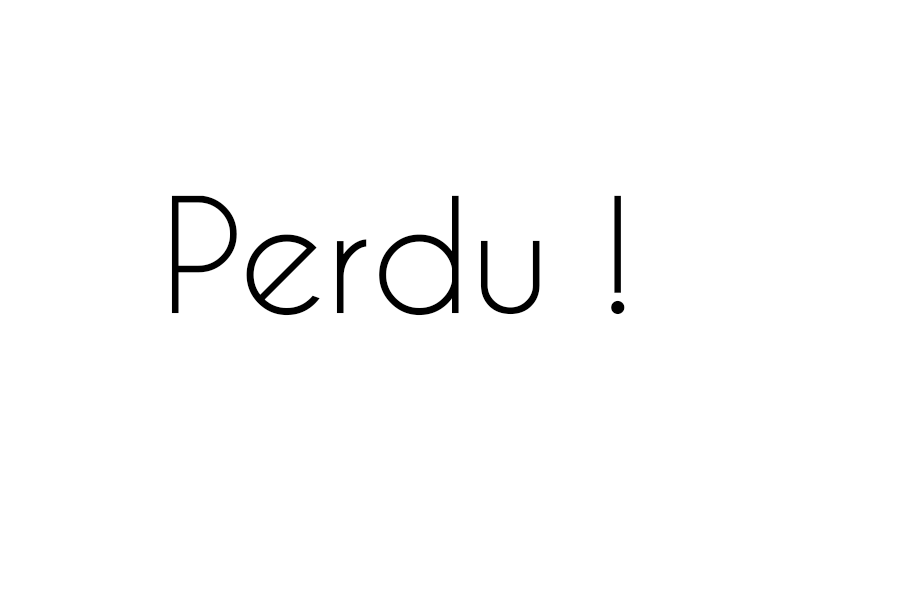
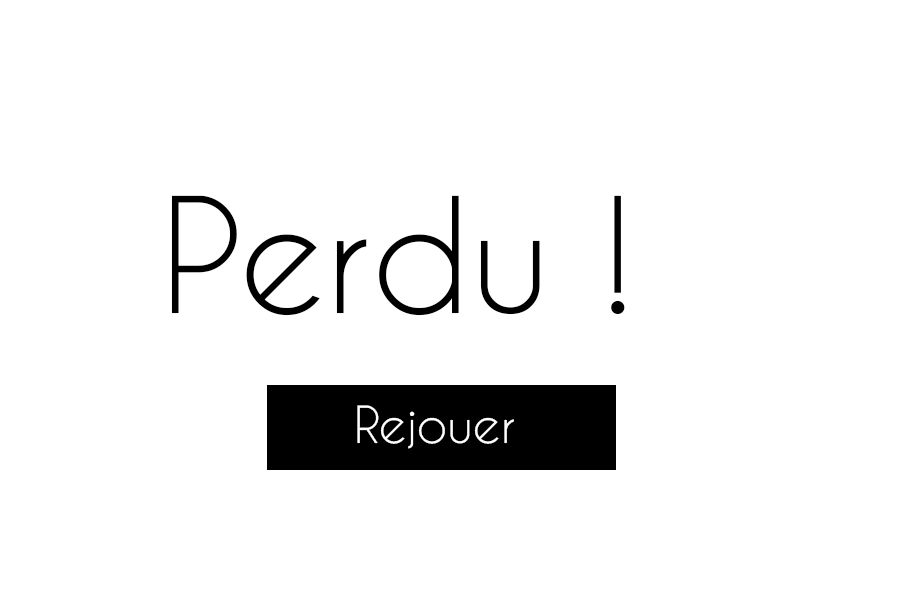
Some cleaning + working on endGame (still bug)

Changed region(s): [[0.28, 0.63, 0.6844, 0.81]]

diff --git a/src/fr/imac/javawars/player/Menu.java b/src/fr/imac/javawars/player/Menu.java
@@ -2,7 +2,6 @@ package fr.imac.javawars.player;
 
 import java.awt.Graphics;
 import java.awt.Image;
-import java.awt.Toolkit;
 import java.awt.event.MouseAdapter;
 import java.awt.event.MouseEvent;
 import java.awt.geom.Rectangle2D;
@@ -21,6 +20,7 @@ import fr.imac.javawars.JavaWars;
 public class Menu extends JPanel {
 	Image backgroundMenu;
 	Rectangle2D boutonPlay;
+	Rectangle2D boutonReplay;
 	
 	/**
 	 * CONSTRUCTOR
@@ -37,14 +37,15 @@ public class Menu extends JPanel {
 		}
 		
 		boutonPlay = new Rectangle2D.Double(650,0,250,115);
+		boutonReplay = new Rectangle2D.Double(255,385,350,100);
 		
-		addBoutonListener();
+		addPlayListener();
 	}
 	
 	/**
-	 * Adding listener on bouton, if pressed : game begins
+	 * Adding listener on playBouton, if pressed : game begins
 	 */
-	public void addBoutonListener(){
+	public void addPlayListener(){
 		this.addMouseListener(new MouseAdapter() {
             public void mouseClicked(MouseEvent e) {
             	if ((e.getButton() == 1) && boutonPlay.contains(e.getX(), e.getY()) ) {
@@ -52,12 +53,14 @@ public class Menu extends JPanel {
             		Human player =(Human)JavaWars.getEngine().getPlayers().get(1);
             		//display game
             		player.getIhm().CreatePanel();
-            		//Auto-update bases life
+            		
+            		// Starting engine
             		JavaWars.getEngine().startThread();
             	}
             }
 		});
 	}
+	
 	
 	/**
 	 * setting background for the end of the game
@@ -69,9 +72,11 @@ public class Menu extends JPanel {
 		Human player =(Human)JavaWars.getEngine().getPlayers().get(1);
 		
 		//erasing game's layers
+		//works
+		player.getIhm().getCenterPanel().getGroundLayer().setBufferedImage(null);
+		//doesn't work
 		player.getIhm().getCenterPanel().getBasesLayer().setBufferedImage(null);
 		player.getIhm().getCenterPanel().getTowersLayer().setBufferedImage(null);
-		player.getIhm().getCenterPanel().getGroundLayer().setBufferedImage(null);
 		
 		try {
 			//display img
@@ -82,7 +87,11 @@ public class Menu extends JPanel {
 		} catch (IOException e) {
 			// TODO Auto-generated catch block
 			e.printStackTrace();
-		}	
+		}
+		
+		//setting ihm content to this screen
+		Ihm ihm = player.getIhm();
+		ihm.setContentPane(this);
 	}
 	
 	/**

diff --git a/src/fr/imac/javawars/engine/ProcessorAgents.java b/src/fr/imac/javawars/engine/ProcessorAgents.java
@@ -1,9 +1,7 @@
 package fr.imac.javawars.engine;
 
 import java.util.Iterator;
-import java.util.LinkedList;
 import java.util.Map;
-import java.util.concurrent.CopyOnWriteArrayList;
 
 import fr.imac.javawars.JavaWars;
 import fr.imac.javawars.player.Player;
@@ -28,7 +26,6 @@ public class ProcessorAgents {
 	 * 			return true if position changes for any agent
 	 */
 	public boolean process(Map<Integer, Player> players){
-		int i = 1;
 		boolean change = false;
 		//for all agents
 		
@@ -64,8 +61,6 @@ public class ProcessorAgents {
 					
 					// if the target base doesn't belong to the player
 					if(a.getBaseTarget().getPlayer() != a.getBaseStart().getPlayer()){
-						//decomment this line to see if display of endScreen work
-						//JavaWars.getEngine().checkEndGame();
 						//if the base is neutral
 						if(a.getBaseTarget().getPlayer() == null){
 							//if the base has more life than 0 we have to decrease it
@@ -94,6 +89,7 @@ public class ProcessorAgents {
 					//if the base belongs to the player
 					else {
 						a.getBaseTarget().addLife(1);
+						JavaWars.getEngine().checkEndGame();
 					}
 					
 				}
@@ -101,9 +97,6 @@ public class ProcessorAgents {
 			change = true;
 		} //end while
 		
-		
-		//System.out.println("processAgents : "+i);
-		i++;
 		return change;
 	}
 	

diff --git a/src/fr/imac/javawars/player/AgentsLayer.java b/src/fr/imac/javawars/player/AgentsLayer.java
@@ -7,7 +7,6 @@ import java.util.Iterator;
 
 import java.util.Map;
 import java.util.concurrent.ConcurrentLinkedQueue;
-import java.util.concurrent.CopyOnWriteArrayList;
 import java.awt.Graphics2D;
 import java.awt.Image;
 import java.awt.RenderingHints;
@@ -92,12 +91,9 @@ public class AgentsLayer extends JPanel {
 		Iterator<Map.Entry<Integer, Player>> it = players.entrySet().iterator();
 	
 		
-		
 		while(it.hasNext()){
 			drawAgentsOfPlayer(it.next().getValue(), g);
 		}
-		
-		
 		
 		isEmptyBufferedImage = false;
 		
@@ -105,7 +101,9 @@ public class AgentsLayer extends JPanel {
 		repaint();
 	}
 
-		
+	/**
+	 * Draw agents of one player
+	 */
 	public void drawAgentsOfPlayer(Player player, Graphics g){
 		Image icon = null;
 		switch (player.getPlayerNumber()) {
@@ -144,12 +142,7 @@ public class AgentsLayer extends JPanel {
 	}
 	
 	public void createAndSendAgent(Player player, Base start, Base target){	
-		//Human player = (Human)JavaWars.getEngine().getPlayers().get(1);
-		
 		ActionAgentSend myAction = new ActionAgentSend(player, start, target);
-
 		JavaWars.getDispatcher().addAction(myAction);
-		
-		//repaint();
 	}
 }

diff --git a/src/fr/imac/javawars/player/BasesLayer.java b/src/fr/imac/javawars/player/BasesLayer.java
@@ -6,8 +6,6 @@ import java.awt.Graphics2D;
 import java.awt.RenderingHints;
 import java.awt.image.BufferedImage;
 import java.util.Iterator;
-import java.util.Timer;
-import java.util.TimerTask;
 import java.util.concurrent.CopyOnWriteArrayList;
 
 import javax.swing.JPanel;
@@ -50,7 +48,7 @@ public class BasesLayer extends JPanel {
 	}
 	
 	/**
-	 * Draw the new stuff on a buffered image insteed of the default graphics
+	 * Draw the new stuff on a buffered image instead of the default graphics
 	 */
 	public void drawBufferedImage(){
 		//System.out.println("Draw BasesLayersBuffer");
@@ -75,7 +73,11 @@ public class BasesLayer extends JPanel {
 	}
 	
 
-	
+	/**
+	 * Draw one Base
+	 * @param b : base to draw
+	 * @param g : graphics to draw on
+	 */
 	private void drawBase(Base b, Graphics g){
 		int radius = b.getRadius();
 		Player player = b.getPlayer();

diff --git a/src/fr/imac/javawars/player/GroundLayer.java b/src/fr/imac/javawars/player/GroundLayer.java
@@ -1,6 +1,5 @@
 package fr.imac.javawars.player;
 
-import java.awt.AlphaComposite;
 import java.awt.Graphics;
 import java.awt.Graphics2D;
 import java.awt.Image;
@@ -8,14 +7,10 @@ import java.awt.RenderingHints;
 import java.awt.image.BufferedImage;
 import java.io.File;
 import java.io.IOException;
-import java.util.Iterator;
-import java.util.concurrent.CopyOnWriteArrayList;
-
 import javax.imageio.ImageIO;
 import javax.swing.JPanel;
-
 import fr.imac.javawars.JavaWars;
-import fr.imac.javawars.engine.Base;
+
 
 
 public class GroundLayer extends JPanel {

diff --git a/src/fr/imac/javawars/JavaWars.java b/src/fr/imac/javawars/JavaWars.java
@@ -33,8 +33,6 @@ public class JavaWars {
 		
 		//create ihm
 		((Human)joueur1).initIhm("Pirates of Java");
-		
-		//Engine Thread start when click on Jouer
 	}
 	
 	
